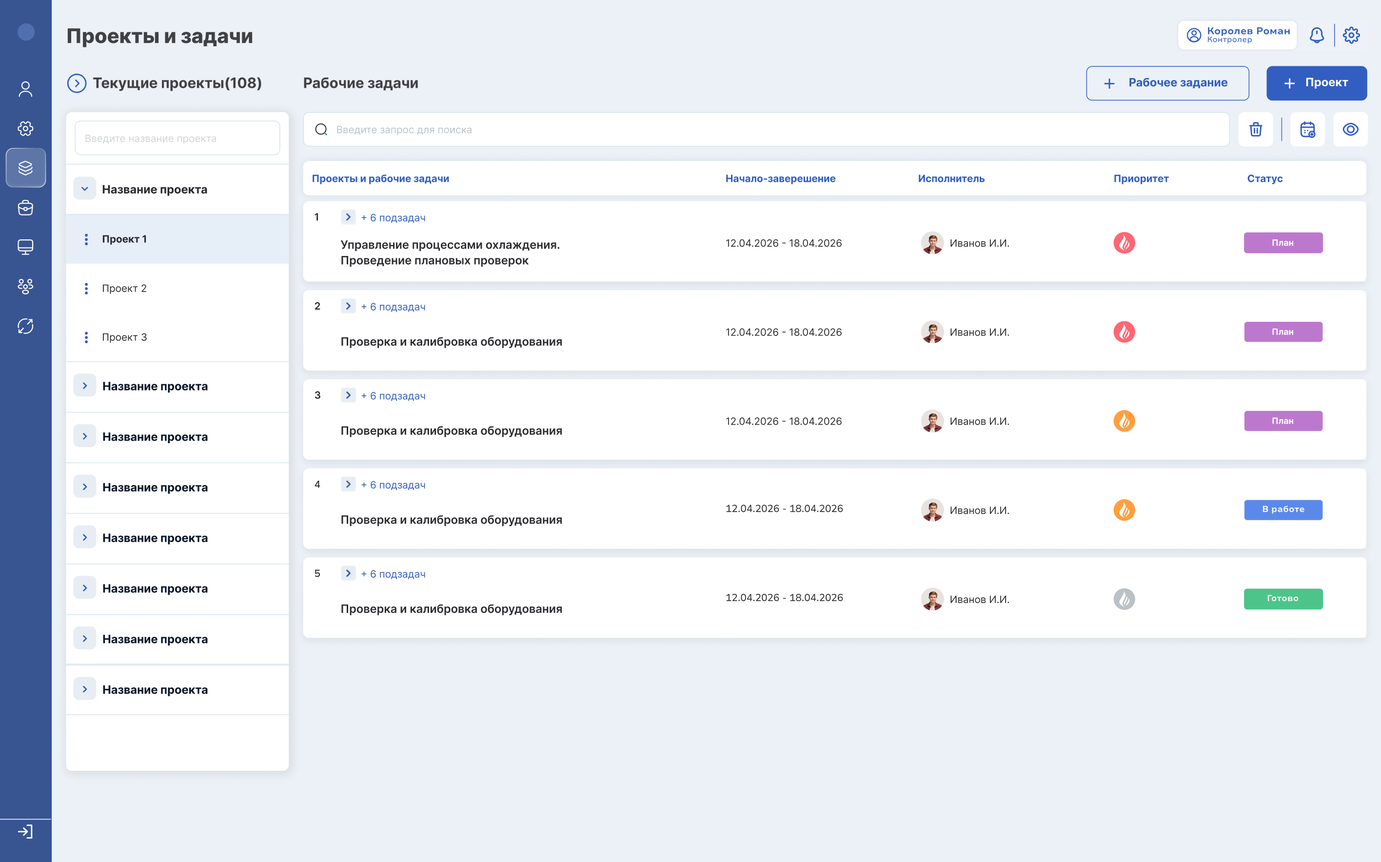
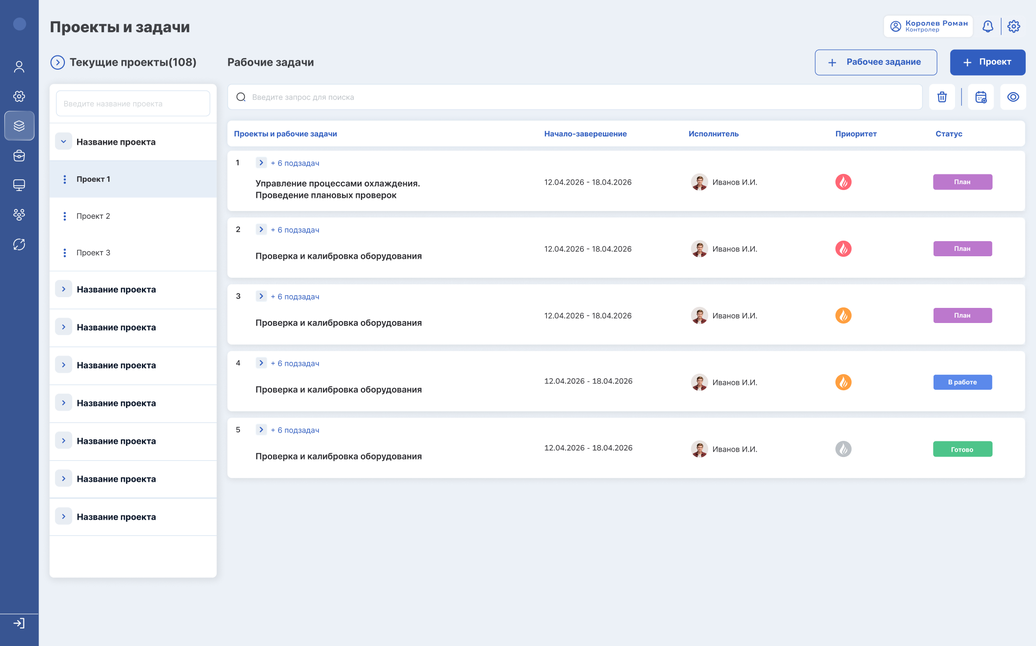
Add files via upload

Changed region(s): [[0.2486, 0.2783, 0.3729, 0.3092], [0.9011, 0.5875, 0.9322, 0.6184]]

diff --git a/index.html b/index.html
@@ -294,7 +294,7 @@
           <!-- Кейс 2: Диаграмма Ганта — ЕСТЬ МАКЕТ -->
           <div class="accordion__item" id="case-03">
             <button class="accordion__trigger" aria-expanded="false" aria-controls="case-03-body">
-              <span class="accordion__name">Модуль тяжелого планирования ремонтов на АЭС (Диаграмма Ганта)</span>
+              <span class="accordion__name">Модуль планирования ремонтов на АЭС (Диаграмма Ганта)</span>
               <span class="accordion__tag">Софт</span>
               <span class="accordion__arrow" aria-hidden="true">
                 <svg width="20" height="20" viewBox="0 0 20 20" fill="none"><path d="M5 7.5L10 12.5L15 7.5" stroke="white" stroke-width="1.5" stroke-linecap="round" stroke-linejoin="round"/></svg>
@@ -450,7 +450,7 @@
                 <div class="case-blocks">
                   <div class="case-block">
                     <h4 class="case-block__title">Бизнес-контекст</h4>
-                    <p class="case-block__text">РРазработчикам была непонятна сквозная логика переходов и краевые состояния интерфейса. Опираясь только на финальные экраны без прописанных сценариев, программисты допускали логические ошибки в коде. Это приводило к бесконечным переделкам, затягиванию сроков релизов и росту стоимости ИТ-производства.</p>
+                    <p class="case-block__text">Разработчикам была непонятна сквозная логика переходов и краевые состояния интерфейса. Опираясь только на финальные экраны без прописанных сценариев, программисты допускали логические ошибки в коде. Это приводило к бесконечным переделкам, затягиванию сроков релизов и росту стоимости ИТ-производства.</p>
                   </div>
                   <div class="case-block">
                     <h4 class="case-block__title">Моя задача</h4>
@@ -530,7 +530,7 @@
                 <div class="case-blocks">
                   <div class="case-block">
                     <h4 class="case-block__title">Бизнес-контекст</h4>
-                    <p class="case-block__text">Переход предприятия от устаревшей модели ремонтов «по регламенту» к современной модели обслуживания «по состоянию». Требовалось снизить аварийные простои оборудования за счет внедрения предиктивной аналитики на базе ИИ.</p><!-- REPLACE -->
+                    <p class="case-block__text">Переход предприятия от устаревшей модели ремонтов к современной модели обслуживания. Требовалось снизить аварийные простои оборудования за счет внедрения предиктивной аналитики на базе ИИ.</p><!-- REPLACE -->
                   </div>
                   <div class="case-block">
                     <h4 class="case-block__title">Аудитория</h4>
@@ -585,7 +585,7 @@
                   </div>
                   <div class="case-block">
                     <h4 class="case-block__title">Моя задача</h4>
-                    <p class="case-block__text">• Спроектировать сквозной интерфейс единого цифрового монитора, связывающий интерактивную 3D-модель АЭС с живыми потоками телеметрии и показаниями техпроцессов.</p><!-- REPLACE -->
+                    <p class="case-block__text">Спроектировать сквозной интерфейс единого цифрового монитора, связывающий интерактивную 3D-модель АЭС с живыми потоками телеметрии и показаниями техпроцессов.</p><!-- REPLACE -->
                   </div>
                   <div class="case-block">
                     <h4 class="case-block__title">Действия</h4>
@@ -630,7 +630,7 @@
                   </div>
                   <div class="case-block">
                     <h4 class="case-block__title">Действия</h4>
-                    <ol class="case-block__text">Провела анализ целевой аудитории (CJM заказчика) и выявила их главные боли и критерии выбора. Разработала информационную архитектуру страницы, разбив её на логические блоки: от УТП и демонстрации возможностей продукта до закрытия возражений и форм захвата. Спроектировала адаптивные макеты для десктопных и мобильных устройств, уделив особое внимание читаемости текстов и контрастности СТА-кнопок.</li><!-- REPLACE -->
+                    <ol class="case-block__text">Провела анализ целевой аудитории и выявила их главные боли и критерии выбора. Разработала информационную архитектуру страницы, разбив её на логические блоки: от УТП и демонстрации возможностей продукта до закрытия возражений и форм захвата. Спроектировала адаптивные макеты для десктопных и мобильных устройств, уделив особое внимание читаемости текстов и контрастности СТА-кнопок.</li><!-- REPLACE -->
                     </ol>
                   </div>
                   <div class="case-block case-block--result">
@@ -645,7 +645,7 @@
             <!-- Кейс 13: Цифровое предприятие — ЗАГЛУШКА -->
           <div class="accordion__item" id="case-12">
             <button class="accordion__trigger" aria-expanded="false" aria-controls="case-12-body">
-              <span class="accordion__name">Мобильный интерфейс ТОиР в машинном зале АЭСс</span>
+              <span class="accordion__name">Мобильный интерфейс ТОиР в машинном зале АЭС</span>
               <span class="accordion__tag">Мобильное приложение</span>
               <span class="accordion__arrow" aria-hidden="true">
                 <svg width="20" height="20" viewBox="0 0 20 20" fill="none"><path d="M5 7.5L10 12.5L15 7.5" stroke="white" stroke-width="1.5" stroke-linecap="round" stroke-linejoin="round"/></svg>
@@ -663,22 +663,104 @@
                 <div class="case-blocks">
                   <div class="case-block">
                     <h4 class="case-block__title">Бизнес-контекст</h4>
-                    <p class="case-block__text">Линейный персонал (обходчики) был вынужден фиксировать дефекты оборудования на бумажных носителях, а затем вручную переносить их в ПК. Это затягивало устранение поломок. При этом условия работы в машинном зале экстремальные: высокий уровень шума (до 90 дБ), вибрация и недостаточное освещение.</p><!-- REPLACE -->
+                    <p class="case-block__text">На атомной станции сотрудники ежедневно выполняют операции с инструментами: занесение в систему, проверку, инвентаризацию, присвоение регистрационных номеров. Раньше эти процессы велись без специализированного мобильного инструмента, что отнимало время. Для упрощения работы было решено создать приложение для устройства с аппаратными (физическими) кнопками. Пользоваться им предстояло прямо в машинном зале — в условиях плохого освещения, шума и постоянной занятости.</p><!-- REPLACE -->
                   </div>
                   <div class="case-block">
                     <h4 class="case-block__title">Моя задача</h4>
-                    <p class="case-block__text">Спроектировать интерфейс мобильного рабочего места ТОиР (Техническое обслуживание и ремонты) для быстрой фиксации дефектов «на ходу» в условиях агрессивной производственной среды.</p><!-- REPLACE -->
+                    <p class="case-block__text">Спроектировать мобильное приложение с нуля для устройства с физическими кнопками так, чтобы оно было максимально простым и быстрым для реальных условий машинного зала: крупные элементы, понятные действия, минимум шагов. При этом важно было не потерять объём информации, необходимый для работы с инструментами, и не перегрузить интерфейс количеством кнопок.</p><!-- REPLACE -->
                   </div>
                   <div class="case-block">
                     <h4 class="case-block__title">Действия</h4>
-                    <ol class="case-block__text">Рассчитала и увеличила кликабельные зоны (Touch Targets) элементов до максимальных размеров для безошибочного ввода данных в защитных перчатках и при сильной вибрации. Усилила общую контрастность элементов по стандартам WCAG и разработала специальную темную тему для комфортного считывания информации в темноте. Заменила длинные текстовые поля ввода на крупные пошаговые чек-листы и селекторы. Разработала логику офлайн-режима для железобетонных бункеров с последующей автосинхронизацией.</li><!-- REPLACE -->
+                    <ol class="case-block__text">На основе анализа требований спроектировала пользовательские пути для ключевых сценариев — занесения инструмента, проверки, инвентаризации и присвоения регистрационного номера, — сразу заложив минимум шагов и отсутствие промежуточных экранов. Предусмотрела навигацию, удобную для управления аппаратными кнопками: логичные переходы, фокус на ключевых действиях и отсутствие мелких элементов, по которым сложно попадать.</li><!-- REPLACE -->
                     </ol>
                   </div>
                   <div class="case-block case-block--result">
                     <h4 class="case-block__title case-block__title--accent">Результат</h4>
-                    <ol class="case-block__text">Разработан отказоустойчивый мобильный интерфейс, который сократил время фиксации дефекта на объекте на 45%. Скорость передачи данных о поломках в ремонтную службу выросла в несколько раз.</li><!-- REPLACE -->
+                    <ol class="case-block__text">Приложение запущено и используется для работы с инструментами на станции. Ключевые операции — занесение, проверка, инвентаризация и присвоение номера — выполняются за минимальное количество шагов. Интерфейс понятен с первого взгляда благодаря крупным элементам, чёткой иерархии и линейной навигации, а также адаптирован под управление с помощью аппаратных кнопок. Пользователи тратят меньше времени на операции с инструментами и быстрее возвращаются к основным задачам.</li><!-- REPLACE -->
                     </ol>
                   </div>
+                   </div>
+                </div>
+              </div>
+            </div>
+             <!-- Кейс 12: Цифровое предприятие — ЗАГЛУШКА -->
+          <div class="accordion__item" id="case-11">
+            <button class="accordion__trigger" aria-expanded="false" aria-controls="case-11-body">
+              <span class="accordion__name">Лендинг "Цифровая трансформация АЭС"</span>
+              <span class="accordion__tag">Лендинг</span>
+              <span class="accordion__arrow" aria-hidden="true">
+                <svg width="20" height="20" viewBox="0 0 20 20" fill="none"><path d="M5 7.5L10 12.5L15 7.5" stroke="white" stroke-width="1.5" stroke-linecap="round" stroke-linejoin="round"/></svg>
+              </span>
+            </button>
+            <div class="accordion__body" id="case-11-body" hidden>
+              <div class="case-content">
+                <div class="case-screens">
+                  <div class="case-screen">
+                    <div class="case-screen__img" data-lightbox>
+                      <img src="len.png" alt="Дашборд" width="800" height="500" loading="lazy" decoding="async">
+                    </div>
+                  </div>
+                </div>
+                <div class="case-blocks">
+                  <div class="case-block">
+                    <h4 class="case-block__title">Бизнес-контекст</h4>
+                    <p class="case-block__text">У компании отсутствовала единая и понятная точка входа для привлечения потенциальных b2b-заказчиков и сбора заявок на ИТ-продукты/услуги. Существующие текстовые материалы были слишком сложными для восприятия потенциальными клиентами, что снижало конверсию в продажи.</p><!-- REPLACE -->
+                  </div>
+                  <div class="case-block">
+                    <h4 class="case-block__title">Моя задача</h4>
+                    <p class="case-block__text">Спроектировать понятную структуру продающей страницы (Landing Page), которая переведет сложную техническую ценность продукта на язык выгод для бизнеса и обеспечит стабильный поток заявок.</p><!-- REPLACE -->
+                  </div>
+                  <div class="case-block">
+                    <h4 class="case-block__title">Действия</h4>
+                    <ol class="case-block__text">Провела анализ целевой аудитории и выявила их главные боли и критерии выбора. Разработала информационную архитектуру страницы, разбив её на логические блоки: от УТП и демонстрации возможностей продукта до закрытия возражений и форм захвата. Спроектировала адаптивные макеты для десктопных и мобильных устройств, уделив особое внимание читаемости текстов и контрастности СТА-кнопок.</li><!-- REPLACE -->
+                    </ol>
+                  </div>
+                  <div class="case-block case-block--result">
+                    <h4 class="case-block__title case-block__title--accent">Результат</h4>
+                    <ol class="case-block__text">Создан логичный, визуально чистый и продающий интерфейс страницы, который успешно выполняет роль главного конвертера трафика. Инструмент полностью закрыл потребность маркетинга в сборе заявок, а структура страницы позволила пользователям быстрее считывать ценность предложения.</li><!-- REPLACE -->
+                    </ol>
+                  </div>
+                   </div>
+                </div>
+              </div>
+            </div>
+            <!-- Кейс 13: Цифровое предприятие — ЗАГЛУШКА -->
+          <div class="accordion__item" id="case-13">
+            <button class="accordion__trigger" aria-expanded="false" aria-controls="case-13-body">
+              <span class="accordion__name">Канбан-доска для управления ремонтными работами</span>
+              <span class="accordion__tag">Софт</span>
+              <span class="accordion__arrow" aria-hidden="true">
+                <svg width="20" height="20" viewBox="0 0 20 20" fill="none"><path d="M5 7.5L10 12.5L15 7.5" stroke="white" stroke-width="1.5" stroke-linecap="round" stroke-linejoin="round"/></svg>
+              </span>
+            </button>
+            <div class="accordion__body" id="case-13-body" hidden>
+              <div class="case-content">
+                <div class="case-screens">
+                  <div class="case-screen">
+                    <div class="case-screen__img" data-lightbox>
+                      <img src="kan.png" alt="Дашборд" width="800" height="500" loading="lazy" decoding="async">
+                    </div>
+                  </div>
+                </div>
+                <div class="case-blocks">
+                  <div class="case-block">
+                    <h4 class="case-block__title">Бизнес-контекст</h4>
+                    <p class="case-block__text">На атомной станции ежедневно выполняется множество ремонтных задач: от плановых работ до срочных устранений неисправностей. Руководители участков и мастера вели учёт задач в списках и таблицах, из-за чего терялась наглядность: было сложно быстро понять, что запланировано, что уже в работе, а что ждёт проверки.</p><!-- REPLACE -->
+                  </div>
+                  <div class="case-block">
+                    <h4 class="case-block__title">Моя задача</h4>
+                    <p class="case-block__text">Спроектировать канбан-доску для управления ремонтными задачами с четырьмя статусами: «План», «В работе», «На проверке» и «Готово». Доска должна давать мгновенную картину загрузки и продвижения задач, помогать быстро принимать решения и не перегружать пользователя лишней информацией. При этом важно было сделать карточки задач информативными, но не перегруженными, чтобы даже при низком уровне цифровизации интерфейс оставался интуитивно понятным.</p><!-- REPLACE -->
+                  </div>
+                  <div class="case-block">
+                    <h4 class="case-block__title">Действия</h4>
+                    <ol class="case-block__text">Я проанализировала, какие данные критичны для быстрого принятия решений на каждом этапе. Внутри карточки задачи разместила только то, что помогает сразу понять контекст: название задачи, описание, приоритет или критичность (цветовой маркер), ответственного сотрудника, срок выполнения.</li><!-- REPLACE -->
+                    </ol>
+                  </div>
+                  <div class="case-block case-block--result">
+                    <h4 class="case-block__title case-block__title--accent">Результат</h4>
+                    <ol class="case-block__text">Канбан-доска запущена и используется для ежедневного управления ремонтными задачами. Руководители и мастера видят полную картину работ без необходимости открывать таблицы и списки. Задачи не теряются, потому что каждый статус визуально отделён и понятен.</li><!-- REPLACE -->
+                    </ol>
+                    </div>
                    </div>
                 </div>
               </div>
